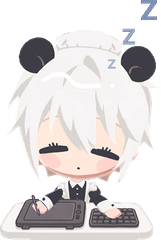
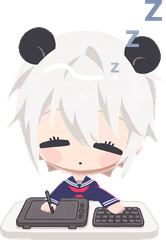
update v1786964610

diff --git a/mascot.py b/mascot.py
@@ -4253,6 +4253,7 @@ class Mascot:
         self._self_cup_at = 0.0      # 본인 컵케이크를 먹은 시각 (10분에 1번)
         self._soft_cache = {}        # 매끈한 원·그림자 그림 (상한 있음)
         self._room_dxc = {}          # 방 그림의 책상 중심 치우침 (slot,tag)→px
+        self._room_meta_h = {}       # 방 그림의 머리선 캐시 (slot → 0~1)
         self._mq_img = None          # 지금 프레임의 마퀴 그림
         self._room_song_slots = set()  # 노래가 걸린 카드 (음표 연출용)
         self._bubble_born = 0.0      # 지금 말풍선이 뜬 시각 (톡 등장용)
@@ -14537,6 +14538,21 @@ class Mascot:
         self._room_meta[slot] = v
         return v
 
+    def _room_headline(self, slot):
+        """그림에서 머리가 끝나는 높이 (0~1). 모르면 None (옛 배포본)."""
+        if slot in self._room_meta_h:
+            return self._room_meta_h[slot]
+        v = None
+        p = self._room_art_file(slot, "seat_meta.json")
+        if p:
+            try:
+                with open(p, encoding="utf-8") as fp:
+                    v = float(json.load(fp).get("head"))
+            except Exception:
+                v = None
+        self._room_meta_h[slot] = v
+        return v
+
     def _room_img(self, slot, tag):
         """방에 그릴 그림 — (몸, 책상) 두 조각. 아직 없으면 None.
 
@@ -14584,21 +14600,26 @@ class Mascot:
                     round(im.width / 2 - (bb2[0] + bb2[2]) / 2) if bb2 else 0)
             except Exception:
                 self._room_dxc[(slot, tag)] = 0
-            if line and 0.2 < line < 0.95:
-                # 몸은 통짜로 두고, 책상 조각을 그 위에 고정으로 덮는다.
-                # 몸을 잘라 올리면 잘린 자리가 그대로 드러난다 (실제로 겪음).
+            hline = self._room_headline(slot)
+            if hline and 0.05 < hline < 0.9:
+                # 머리/몸 분리 — 전신은 고정하고 머리 조각만 숨쉬게 한다.
+                # 머리 조각은 목 아래로 살짝 겹쳐 잘라, 위로 떠도 틈이 없다.
+                lap = int(4 * self._room_k())
+                hcut = min(h, int(h * hline) + lap)
+                pair = (ImageTk.PhotoImage(im.crop((0, 0, im.width, hcut))),
+                        ImageTk.PhotoImage(im), h, "head")
+            elif line and 0.2 < line < 0.95:
+                # 옛 배포본(머리선 없음) — 몸이 숨쉬고 책상 조각이 위에 덮는다.
                 cut = int(h * line)
-                # 몸이 숨쉬며 오르내릴 때(±1.6k) 흰 테두리가 이음새로
-                # 드러나지 않게 책상 조각을 살짝만 위로 겹친다. 크게 겹치면
-                # 그 띠 안의 몸 그림이 붙박이가 돼 '잘린 선'으로 보인다
-                # (연어 제보 — 8k였을 때).
+                # 겹침은 숨쉬기 진폭만 가릴 만큼만 (크면 잘린 선으로 보인다 —
+                # 연어 제보, 8k였을 때)
                 lap = int(3 * self._room_k())
                 cut2 = max(0, cut - lap)
                 pair = (ImageTk.PhotoImage(im),
                         ImageTk.PhotoImage(im.crop((0, cut2, im.width, h))),
-                        h - cut2)
+                        h - cut2, "desk")
             else:
-                pair = (ImageTk.PhotoImage(im), None, 0)
+                pair = (ImageTk.PhotoImage(im), None, 0, "desk")
         except Exception:
             self._room_art_bad.add(slot)
             return None
@@ -15963,8 +15984,8 @@ class Mascot:
                  width=3 if picked else 2)
         got = self._room_img(slot, self._room_pose(p))
         if got is not None:
-            body, desk, cut = got
-            # 숨쉬듯 아주 살짝. 움직이는 것은 몸뿐이고 책상은 고정이다.
+            body, over, cut, mode = got
+            # 숨쉬듯 아주 살짝 — 머리 조각(있으면)만 들썩이고 몸·책상은 고정
             bob = math.sin(time.time() * 1.7 + hash(slot) % 7) * (1.6 * k)
             if sleeping:
                 bob *= 0.6
@@ -15972,21 +15993,30 @@ class Mascot:
             pose = self._room_pose(p)
             cx = (kx0 + kx1) / 2 + self._room_dxc.get(
                 (slot, pose), self._room_dxc.get((slot, "seat"), 0))
-            item = cv.create_image(cx, base + bob, image=body, anchor="s",
-                                   tags="dyn")
-            ditem = None
-            if desk is not None:
-                # 책상을 나중에 그려 위에 덮는다 — 뒤에서 몸이 움직여도
-                # 책상은 붙박이고 이음매도 안 보인다.
-                ditem = cv.create_image(cx, base, image=desk, anchor="s",
+            if mode == "head" and over is not None:
+                # body = 머리 조각(움직임), over = 전신(고정)
+                ditem = cv.create_image(cx, base, image=over, anchor="s",
                                         tags="dyn")
+                reg = base - over.height() + body.height()
+                item = cv.create_image(cx, reg + bob, image=body, anchor="s",
+                                       tags="dyn")
+            else:
+                reg = base
+                item = cv.create_image(cx, base + bob, image=body, anchor="s",
+                                       tags="dyn")
+                ditem = None
+                if over is not None:
+                    # 책상을 나중에 그려 위에 덮는다 — 뒤에서 몸이 움직여도
+                    # 책상은 붙박이고 이음매도 안 보인다.
+                    ditem = cv.create_image(cx, base, image=over, anchor="s",
+                                            tags="dyn")
             if float(p.get("p") or 0) >= 1.0:
                 # 목표를 다 채운 사람 — 남들 화면에서도 축하 모습으로
                 self._safe("room_party", self._room_party_draw,
                            cv, slot, pose, cx, base + bob, k, col)
             if not off:
                 # 안 켠 사람은 숨쉬지 않는다 — 켜 있는 사람과 구분이 된다
-                self._room_body.append((item, ditem, slot, base, sleeping,
+                self._room_body.append((item, ditem, slot, reg, sleeping,
                                         pose))
         else:
             cv.create_oval((kx0 + kx1) / 2 - 26 * k, floor - 56 * k,
